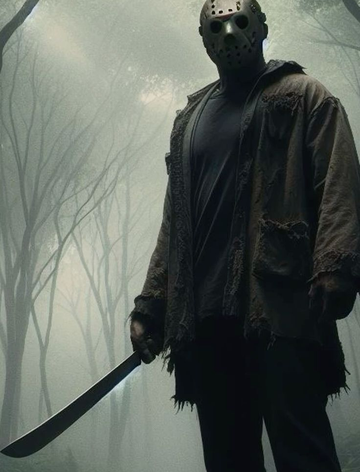
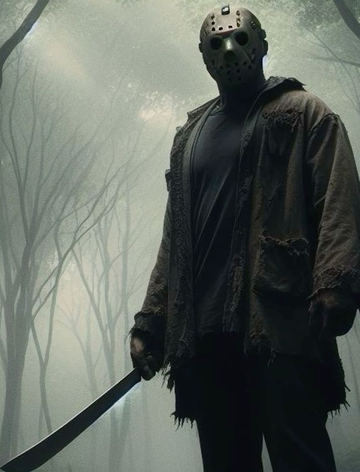
Jason 2: zero top-bias so the hockey mask isn't clipped
User feedback: "for Jason, the new card art, his head is being cut
off. Can you readjust it?"

Was top_bias=0.10 → y1=34, which was shaving 34 px off the top of
the source and clipping the upper edge of the hockey mask. Dropped
to top_bias=0 (y1=0) — the crop now starts at the very top of the
source so the full mask + head sit cleanly in frame. The 343 px
height delta all comes off the bottom instead, dropping the lower
forest floor / boot area.

User also mentioned the left arm reads as a little cut off — that
edge is already at x=0 of the source (no horizontal crop happens),
so the machete blade extending past the source frame can't be
recovered from this file alone. The new top-bias-0 crop at least
gives the figure more vertical room which may relax how cramped
the left edge feels.

Cache: _CARD_ART_VERSION 35→36, ui.js → v589.

diff --git a/index.html b/index.html
@@ -719,7 +719,7 @@
   <script src="https://unpkg.com/peerjs@1.5.4/dist/peerjs.min.js"></script>
   <script src="multiplayer.js?v=5"></script>
   <script src="card-art-manifest.js?v=17"></script>
-  <script src="ui.js?v=588"></script>
+  <script src="ui.js?v=589"></script>
   <script src="logger.js?v=5"></script>
   <!-- Always-on crash capture. Hooks window.onerror +
        unhandledrejection, surfaces a "Copy bug report" button when

diff --git a/ui.js b/ui.js
@@ -13,7 +13,7 @@ const UI = {
   // cached PNGs (which don't have built-in cache busters since they're
   // referenced via background-image url() and not the index.html
   // version-suffix system). Bump this every time you regen art.
-  _CARD_ART_VERSION: 35,
+  _CARD_ART_VERSION: 36,
 
   // =====================================================================
   // CARD ART VARIANTS
